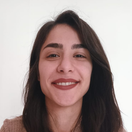
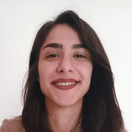
Minor.

diff --git a/pisameet/raster.py b/pisameet/raster.py
@@ -145,7 +145,7 @@ def raster_pdf(input_file_path: str, output_file_path: str, target_width: int,
     return png_resize_to_width(file_path, file_path, target_width)
 
 
-def face_bbox(file_path: str, min_frac_size: float = 0.15, padding: float = 1.85):
+def face_bbox(file_path: str, min_frac_size: float = 0.145, padding: float = 1.85):
     """Run a simple opencv face detection and return the proper bounding box for
     cropping the input image.
 
